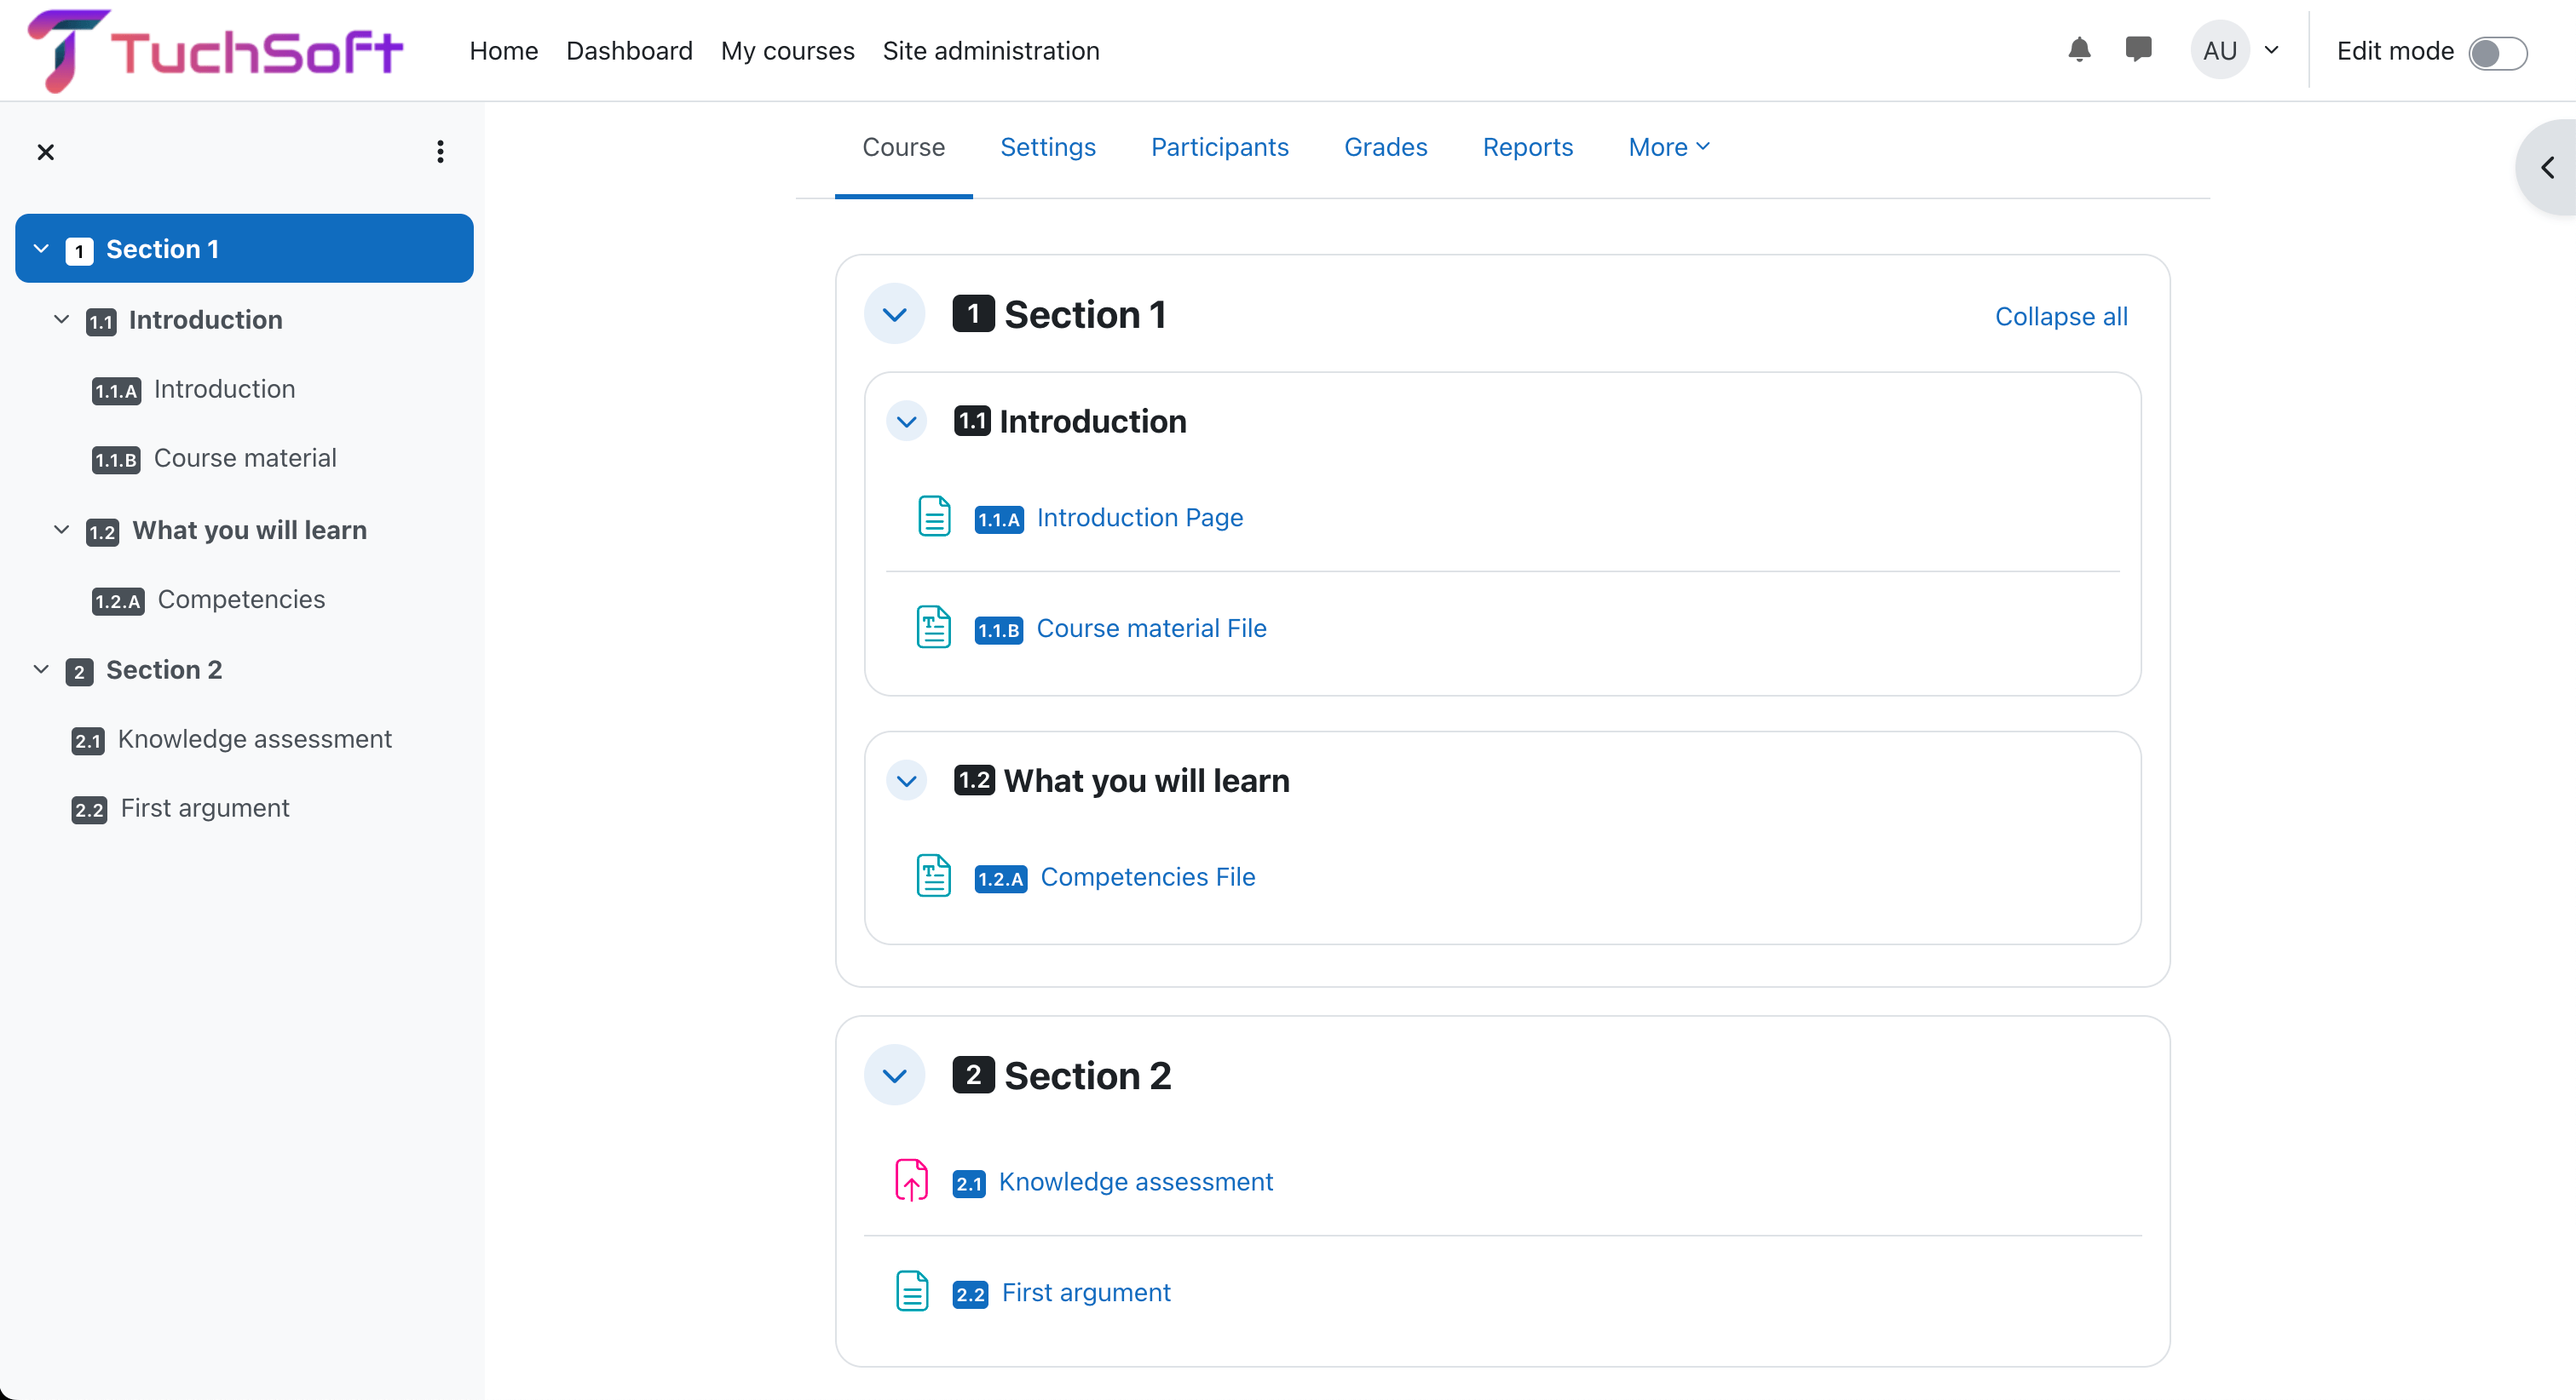
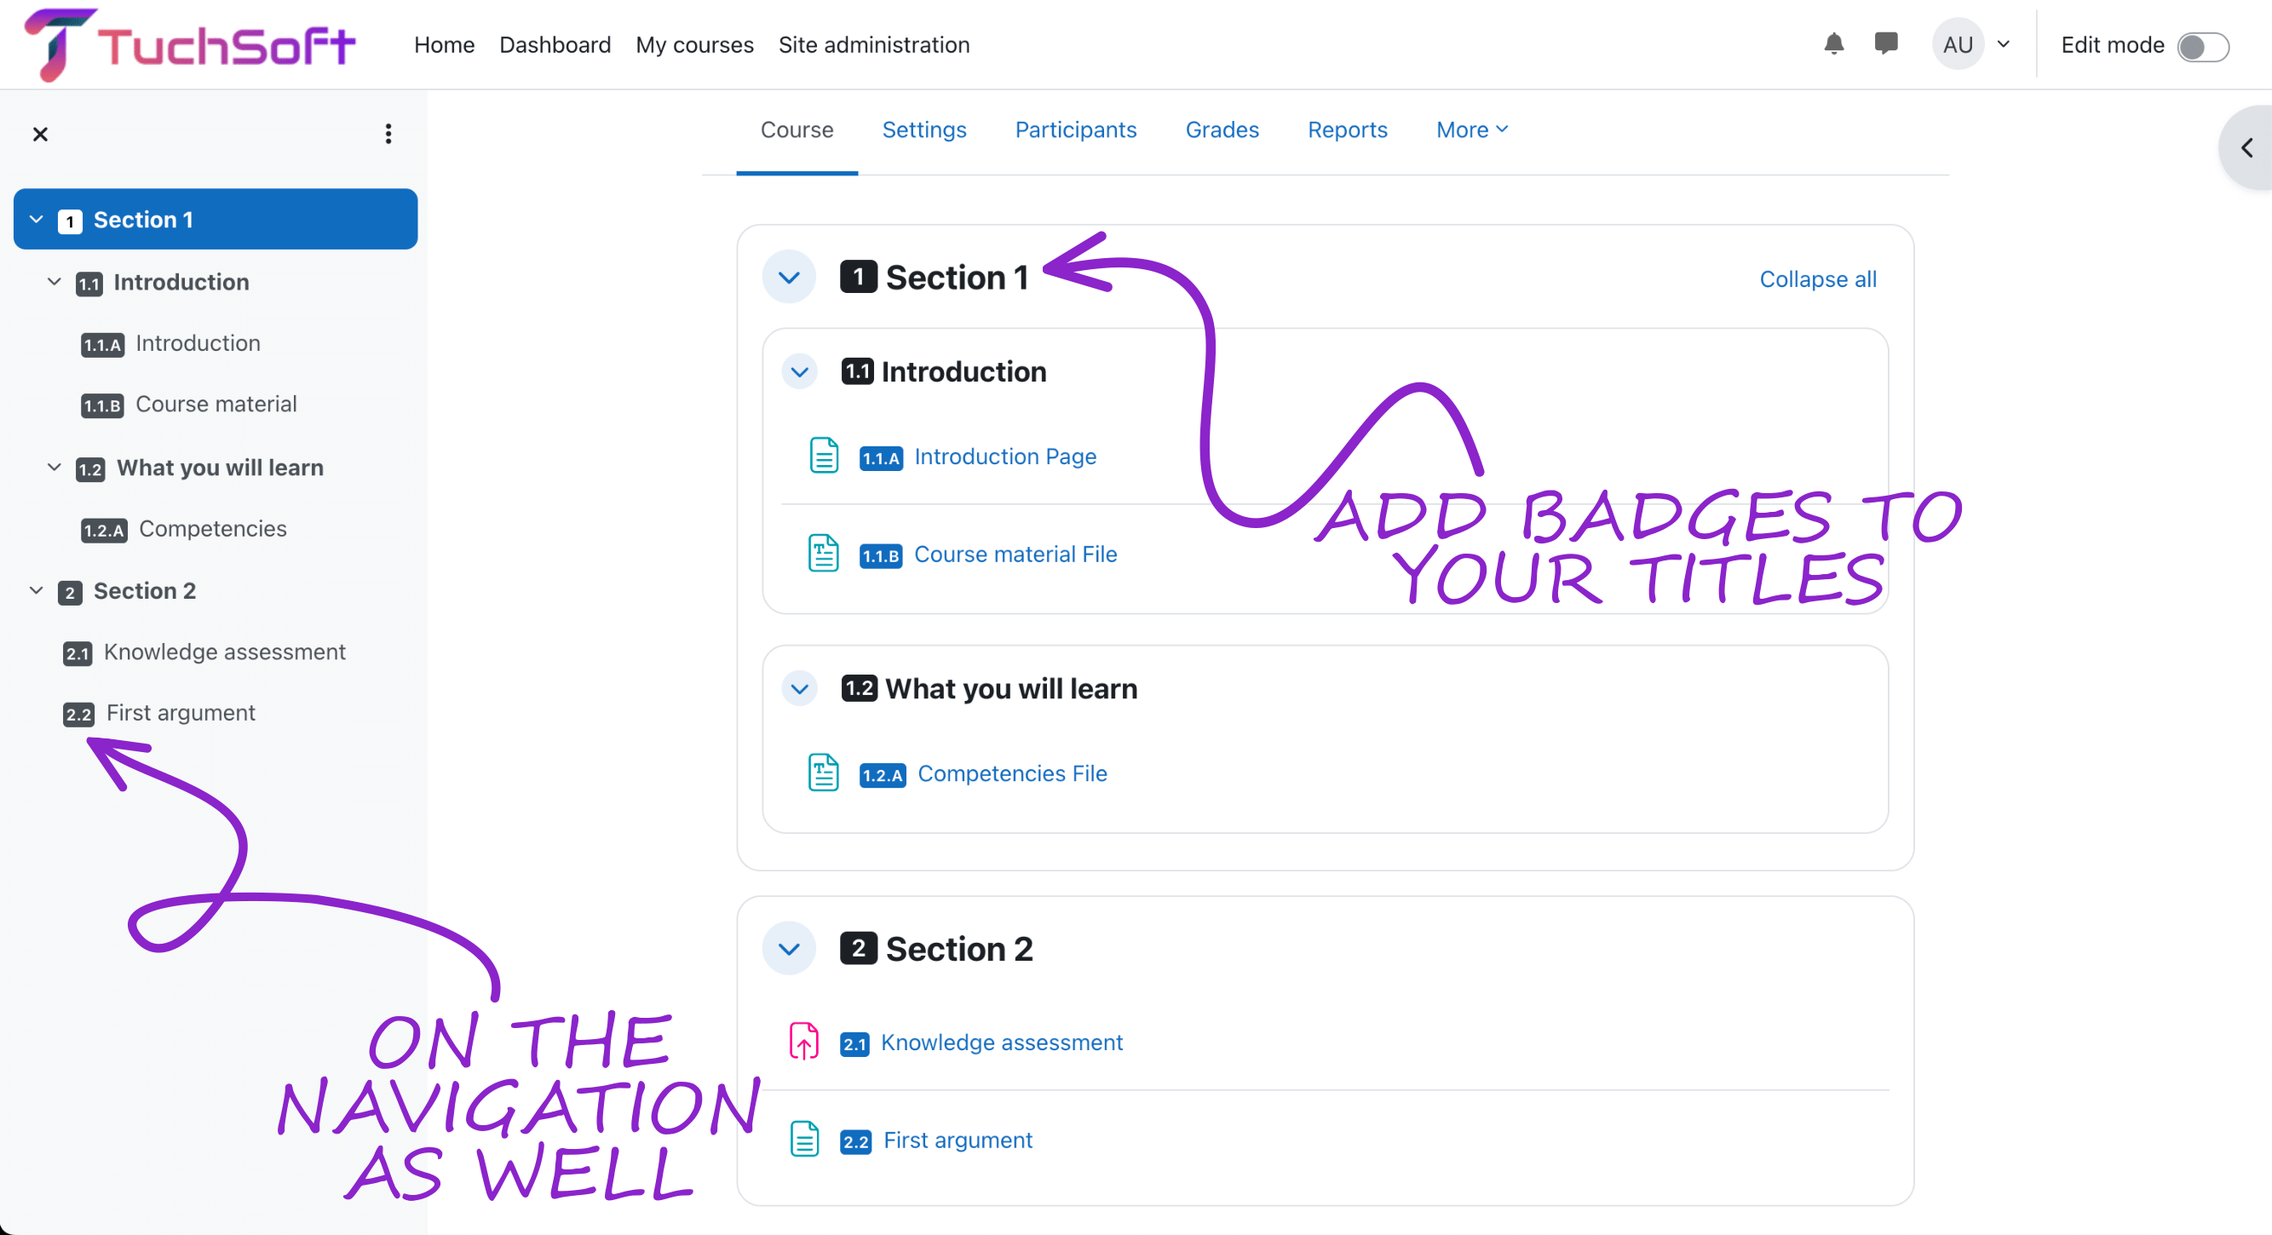
update screenshot

diff --git a/amd/build/index.min.js b/amd/build/index.min.js
@@ -7,6 +7,6 @@
  * @see https://tuchsoft.com/plugin/moodle/local_numicon <Documentations and tutorials>
  * @license http://www.gnu.org/copyleft/gpl.html GNU GPL v3 or later
  */
-define("local_numicon/index",["jquery"],(function($){return{init:function(regex){let breadcrumb=arguments.length>1&&void 0!==arguments[1]?arguments[1]:"hide",section=!(arguments.length>2&&void 0!==arguments[2])||arguments[2],activity=arguments.length>3&&void 0!==arguments[3]&&arguments[3];const addNumIcon=function(classes){"icon"==breadcrumb&&(classes+=",.breadcrumb-item > a, .breadcrumb-item > span"),document.querySelectorAll(classes).forEach((el=>{const match=el.innerText.trim().match(regex);if(match){let icon=(match.groups&&match.groups.icon?match.groups.icon:match[1]).trim(),title=(match.groups&&match.groups.title?match.groups.title:match[2]).trim();el.innerHTML='<div class="text-center numicon-container">\n                                            <div class="numicon-icon">\n                                                <span class="numicon-num">'.concat(icon,"</span>\n                                            </div>\n                                        </div> \n                                        ").concat(title)}})),"hide"==breadcrumb&&document.querySelectorAll(".breadcrumb-item > a, .breadcrumb-item > span").forEach((el=>{const match=el.innerText.trim().match(regex);match&&(el.innerText=match[2].trim())}))};let classes=[];section&&classes.push(".sectionname",".sectionheading",".sectionname > a",'[data-for="section_title"].courseindex-link','body[id^="page-course-view-section"] .page-header-headings > h1'),activity&&classes.push(".instancename",".instancename > a",'[data-for="cm_name"].courseindex-link','body[id^="page-mod"] .page-header-headings > h1'),classes=classes.join(","),$(document).ready((()=>{addNumIcon(classes);new MutationObserver((()=>{addNumIcon(classes)})).observe(document.querySelector(".courseindex"),{childList:!0,subtree:!0})}))}}}));
+define("local_numicon/index",["jquery"],(function($){return{init:function(regex){let breadcrumb=arguments.length>1&&void 0!==arguments[1]?arguments[1]:"hide",section=!(arguments.length>2&&void 0!==arguments[2])||arguments[2],activity=arguments.length>3&&void 0!==arguments[3]&&arguments[3];const addNumIcon=function(classes){"icon"==breadcrumb&&(classes+=",.breadcrumb-item > a, .breadcrumb-item > span"),document.querySelectorAll(classes).forEach((el=>{const match=el.innerText.trim().match(regex);if(console.log(match),match){let icon=(match.groups&&match.groups.icon?match.groups.icon:match[1]).trim(),title=(match.groups&&match.groups.title?match.groups.title:match[2]).trim(),iconclass="numicon-num";isUnicodeEmoji(icon)&&(iconclass+=" numicon-emoji"),el.innerHTML='<div class="text-center numicon-container">\n                                            <div class="numicon-icon">\n                                                <span class="'.concat(iconclass,'">').concat(icon,"</span>\n                                            </div>\n                                        </div> \n                                        ").concat(title)}})),"hide"==breadcrumb&&document.querySelectorAll(".breadcrumb-item > a, .breadcrumb-item > span").forEach((el=>{const match=el.innerText.trim().match(regex);match&&(el.innerText=match[2].trim())}))},isUnicodeEmoji=function(char){const codePoint=char.codePointAt(0);return codePoint>=128512&&codePoint<=128591||codePoint>=127744&&codePoint<=128511||codePoint>=128640&&codePoint<=128767||codePoint>=128768&&codePoint<=128895||codePoint>=128896&&codePoint<=129023||codePoint>=129024&&codePoint<=129279||codePoint>=129280&&codePoint<=129535||codePoint>=129536&&codePoint<=129647||codePoint>=129648&&codePoint<=129791||codePoint>=9728&&codePoint<=9983||codePoint>=9984&&codePoint<=10175||codePoint>=127456&&codePoint<=127487||codePoint>=127488&&codePoint<=127743||codePoint>=126976&&codePoint<=127023||codePoint>=127024&&codePoint<=127135||codePoint>=127136&&codePoint<=127231||codePoint>=129440&&codePoint<=129535||codePoint>=129744&&codePoint<=129753||codePoint>=129760&&codePoint<=129791||codePoint>=129792&&codePoint<=130047||codePoint>=130048&&codePoint<=130207||codePoint>=130304&&codePoint<=130559||codePoint>=130560&&codePoint<=130815||codePoint>=130816&&codePoint<=131069};let classes=[];section&&classes.push(".sectionname",".sectionheading",".sectionname > a",'[data-for="section_title"].courseindex-link','body[id^="page-course-view-section"] .page-header-headings > h1'),activity&&classes.push(".instancename",".instancename > a",'[data-for="cm_name"].courseindex-link','body[id^="page-mod"] .page-header-headings > h1'),classes=classes.join(","),$(document).ready((()=>{addNumIcon(classes);new MutationObserver((()=>{addNumIcon(classes)})).observe(document.querySelector(".courseindex"),{childList:!0,subtree:!0})}))}}}));
 
 //# sourceMappingURL=index.min.js.map

diff --git a/amd/src/index.js b/amd/src/index.js
@@ -27,7 +27,6 @@ define(['jquery'], function($) {
     return {
         init: function (regex, breadcrumb = 'hide', section = true, activity = false ) {
             const addNumIcon = function(classes) {
-                const emojiRegex = /\p{Emoji}/u;
                 const breadcrumbClass = '.breadcrumb-item > a, .breadcrumb-item > span';
                 if (breadcrumb == 'icon') {
                     classes += ','+breadcrumbClass;
@@ -35,13 +34,14 @@ define(['jquery'], function($) {
 
                 document.querySelectorAll(classes).forEach(el => {
                     const match = el.innerText.trim().match(regex);
+                    console.log(match);
                     if (match) {
                         let icon = (match.groups && match.groups.icon ? match.groups.icon : match[1]).trim();
                         let title = (match.groups && match.groups.title ? match.groups.title : match[2]).trim();
                         let iconclass = 'numicon-num';
 
-                        if (emojiRegex.test(icon)) {
-                            iconclass += 'numicon-emoji';
+                        if (isUnicodeEmoji(icon)) {
+                            iconclass += ' numicon-emoji';
                         }
 
                         el.innerHTML = `<div class="text-center numicon-container">
@@ -63,6 +63,38 @@ define(['jquery'], function($) {
                     });
                 }
             };
+
+            function isUnicodeEmoji(char) {
+                const codePoint = char.codePointAt(0);
+                return (
+                    (codePoint >= 0x1F600 && codePoint <= 0x1F64F) || // Emoticons
+                    (codePoint >= 0x1F300 && codePoint <= 0x1F5FF) || // Miscellaneous Symbols and Pictographs
+                    (codePoint >= 0x1F680 && codePoint <= 0x1F6FF) || // Transport and Map Symbols
+                    (codePoint >= 0x1F700 && codePoint <= 0x1F77F) || // Alchemical Symbols
+                    (codePoint >= 0x1F780 && codePoint <= 0x1F7FF) || // Geometric Shapes Extended
+                    (codePoint >= 0x1F800 && codePoint <= 0x1F8FF) || // Supplemental Arrows-C
+                    (codePoint >= 0x1F900 && codePoint <= 0x1F9FF) || // Supplemental Symbols and Pictographs
+                    (codePoint >= 0x1FA00 && codePoint <= 0x1FA6F) || // Chess Symbols
+                    (codePoint >= 0x1FA70 && codePoint <= 0x1FAFF) || // Symbols and Pictographs Extended-A
+                    (codePoint >= 0x2600 && codePoint <= 0x26FF) ||   // Miscellaneous Symbols (includes ⭐ at U+2B50 is outside this range)
+                    (codePoint >= 0x2700 && codePoint <= 0x27BF) ||   // Dingbats
+                    (codePoint >= 0x1F1E0 && codePoint <= 0x1F1FF) || // Regional Indicator Symbols (for flags)
+                    (codePoint >= 0x1F200 && codePoint <= 0x1F2FF) || // Enclosed CJK Letters and Months
+                    (codePoint >= 0x1F000 && codePoint <= 0x1F02F) || // Mahjong Tiles
+                    (codePoint >= 0x1F030 && codePoint <= 0x1F09F) || // Domino Tiles
+                    (codePoint >= 0x1F0A0 && codePoint <= 0x1F0FF) || // Playing Cards
+                    (codePoint >= 0x1F9A0 && codePoint <= 0x1F9FF) || // More Supplemental Symbols and Pictographs
+                    (codePoint >= 0x1FAD0 && codePoint <= 0x1FAD9) || // Skateboard
+                    (codePoint >= 0x1FAE0 && codePoint <= 0x1FAFF) || // Symbols and Pictographs Extended-B
+                    (codePoint >= 0x1FB00 && codePoint <= 0x1FBFF) || // Symbols for Legacy Computing
+                    (codePoint >= 0x1FC00 && codePoint <= 0x1FC9F) || // Ornamental Dingbats
+                    (codePoint >= 0x1FD00 && codePoint <= 0x1FDFF) || // Geometric Shapes Extended-A
+                    (codePoint >= 0x1FE00 && codePoint <= 0x1FEFF) || // Supplemental Punctuation
+                    (codePoint >= 0x1FF00 && codePoint <= 0x1FFFD) ||   // Symbols and Pictographs Extended-C
+                    (codePoint >= 0x2B50 && codePoint <= 0x2B50)     // Black Medium Star ⭐
+                    // ... and potentially more ranges
+                );
+            }
 
             let classes = [];
 

diff --git a/README.md b/README.md
@@ -114,4 +114,4 @@ Screenshot of the plugin in action, with theme "Boost" and "Custom section/Topic
 * **Section view** ![Section view Screenshot](https://raw.githubusercontent.com/TuchSoft/moodle-local_numicon/refs/heads/main/.moodle_plugin/screenshot/tuchsoft_local_numicon_screenshot_section_view.png)
 
 
-* **Mod view** ![Mod view Screenshot](https://raw.githubusercontent.com/TuchSoft/moodle-local_numicon/refs/heads/main/.moodle_plugin/screenshot/tuchsoft_local_numicon_screenshot_mod_view.png)
+* **Mod view** ![Mod view Screenshot](https://raw.githubusercontent.com/TuchSoft/moodle-local_numicon/refs/heads/main/.moodle_plugin/screenshot/tuchsoft_local_numicon_screenshot_activity_view.png)
